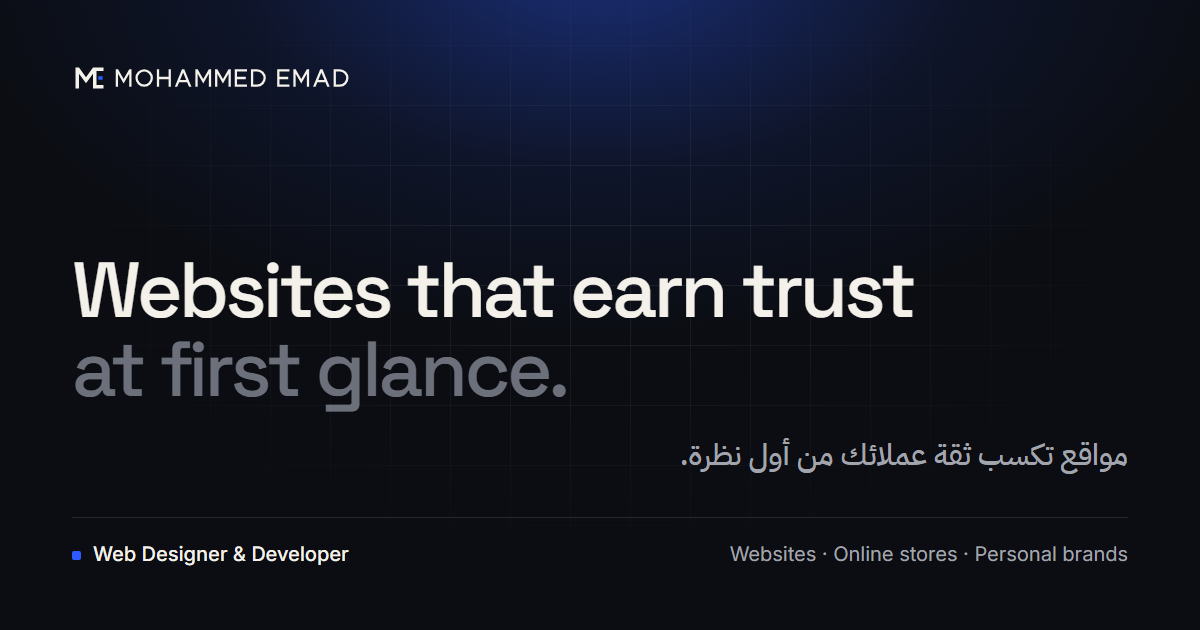
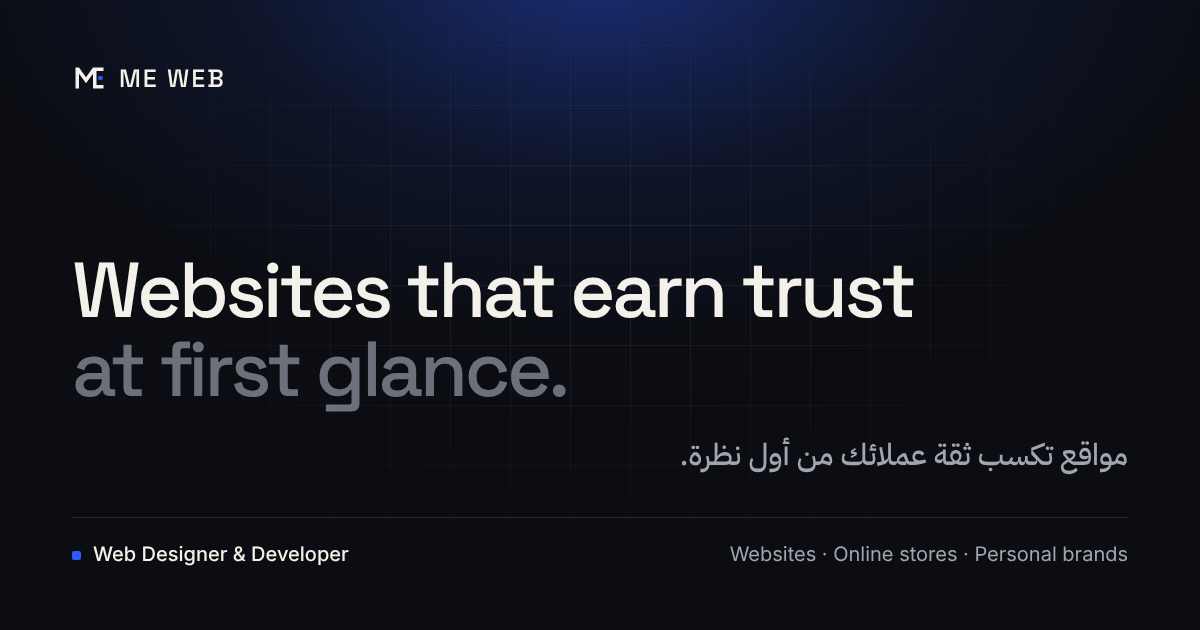
Rebrand the site as ME Web
Header wordmark, page titles, meta and social tags, about intro, WhatsApp
messages, footer and the link-preview image now use the ME Web brand.

Claude-Session: https://claude.ai/code/session_011H3y8ddzUaxvKRhzJsDCke

diff --git a/js/i18n.js b/js/i18n.js
@@ -4,10 +4,10 @@
    ========================================================================= */
 window.I18N = {
   ar: {
-    brand: { name: "محمد عماد" },
+    brand: { name: "ME Web", owner: "محمد عماد" },
     meta: {
-      title: "محمد عماد — تصميم وتطوير المواقع",
-      description: "أبني مواقع وأتمتة ذكية تجلب لك العملاء وتوفّر وقتك — للشركات والمتاجر الإلكترونية والعلامات الشخصية."
+      title: "ME Web | محمد عماد — تصميم وتطوير المواقع",
+      description: "ME Web: مواقع وأتمتة ذكية تجلب لك العملاء وتوفّر وقتك — للشركات والمتاجر الإلكترونية والعلامات الشخصية."
     },
     nav: {
       work: "الأعمال",
@@ -88,7 +88,7 @@ window.I18N = {
       askText: "أخبرني بها، وسأقترح عليك كيف يمكن أن تتم وحدها.",
       more: "اكتشف الأتمتة",
       page: {
-        metaTitle: "أتمتة الأعمال — محمد عماد",
+        metaTitle: "أتمتة الأعمال — ME Web",
         metaDescription: "موقع يعمل لأجلك على مدار الساعة: رد فوري على العملاء، وطلبات تُسجَّل وحدها، ومتابعة لا تنسى.",
         lead: "بدل أن تقضي يومك في الرد والنسخ والمتابعة، دع موقعك يتولّى المهام المتكررة — وتفرّغ أنت لعملائك ولعملك.",
         examplesTitle: "أمثلة لما يمكن أن يتم تلقائيًا",
@@ -123,7 +123,7 @@ window.I18N = {
         { icon: "compass", t: "صورة واضحة", d: "تخرج وأنت تعرف كيف يمكن أن يبدو موقعك وما الذي يحتاجه — حتى لو لم نعمل معًا." }
       ],
       page: {
-        metaTitle: "استشارة مجانية — محمد عماد",
+        metaTitle: "استشارة مجانية — ME Web",
         metaDescription: "احجز اجتماعًا مجانيًا وبدون أي التزام للحديث عن فكرة موقعك، واخرج بصورة واضحة لما يناسبك.",
         title: "محادثة مجانية <span class=\"hl\">عن موقعك.</span>",
         lead: "قبل أن تدفع أي شيء، لنتحدث عن موقعك وعن المهام التي يمكن أن تتم تلقائيًا. سأساعدك أن تعرف بوضوح ما تحتاجه — سواء قررت العمل معي أو لا.",
@@ -171,7 +171,7 @@ window.I18N = {
         d: "موقع يجلب لك العملاء — ويتابع معهم تلقائيًا.",
         points: ["موقع احترافي مصمّم ليحوّل الزوار إلى عملاء", "رد فوري وتنبيه بكل عميل جديد", "متابعة وتذكيرات تلقائية"],
         cta: "اسأل عن هذه الباقة",
-        wa: "مرحبًا محمد، أنا مهتم بباقة الموقع + الأتمتة."
+        wa: "أهلًا ME Web، أنا مهتم بباقة الموقع + الأتمتة."
       },
       askTitle: "لست متأكدًا مما تحتاجه؟",
       askText: "أخبرني عن نشاطك، وسنحدّد معًا الحل الأنسب لك.",
@@ -201,7 +201,7 @@ window.I18N = {
     },
     about: {
       eyebrow: "عنّي",
-      title: "أهلًا، أنا محمد عماد.",
+      title: "أنا محمد عماد، صاحب ME Web.",
       role: "مصمّم ومطوّر مواقع",
       lecturer: "محاضر لغة ألمانية",
       creator: "صانع محتوى على يوتيوب",
@@ -229,6 +229,7 @@ window.I18N = {
     footer: {
       tagline: "مواقع وأتمتة أعمال للشركات والمتاجر والعلامات الشخصية.",
       rights: "جميع الحقوق محفوظة.",
+      owner: "المؤسس: محمد عماد",
       top: "العودة للأعلى",
       explore: "تصفّح",
       connect: "تواصل"
@@ -249,7 +250,7 @@ window.I18N = {
       ctaTitle: "تريد موقعًا بهذا المستوى؟",
       ctaLead: "أرسل لي رسالة على واتساب ولنبدأ الحديث عن مشروعك.",
       notFound: "لم يتم العثور على هذا المشروع.",
-      waAbout: "مرحبًا محمد، شاهدت مشروع {name} وأريد موقعًا بنفس المستوى."
+      waAbout: "أهلًا ME Web، شاهدت مشروع {name} وأريد موقعًا بنفس المستوى."
     },
     img: { missing: "ضع الصورة هنا" },
     social: { whatsapp: "واتساب", email: "البريد", youtube: "يوتيوب", instagram: "إنستجرام", tiktok: "تيك توك", facebook: "فيسبوك" },
@@ -257,10 +258,10 @@ window.I18N = {
   },
 
   en: {
-    brand: { name: "Mohammed Emad" },
+    brand: { name: "ME Web", owner: "Mohammed Emad" },
     meta: {
-      title: "Mohammed Emad — Web Designer & Developer",
-      description: "I build websites and smart automations that bring you clients and save you time — for businesses, online stores, and personal brands."
+      title: "ME Web | Mohammed Emad — Web Design & Development",
+      description: "ME Web builds websites and smart automations that bring you clients and save you time — for businesses, online stores, and personal brands."
     },
     nav: {
       work: "Work",
@@ -341,7 +342,7 @@ window.I18N = {
       askText: "Tell me about it, and I’ll suggest how it could run on its own.",
       more: "Explore automation",
       page: {
-        metaTitle: "Business automation — Mohammed Emad",
+        metaTitle: "Business automation — ME Web",
         metaDescription: "A website that works for you 24/7: instant replies to clients, orders recorded on their own, and follow-ups that never forget.",
         lead: "Instead of spending your day replying, copying, and following up, let your website handle the repetitive tasks — so you can focus on your clients and your work.",
         examplesTitle: "Examples of what can run on its own",
@@ -376,7 +377,7 @@ window.I18N = {
         { icon: "compass", t: "A clear picture", d: "You’ll leave knowing what your website could look like and what it takes — even if we don’t work together." }
       ],
       page: {
-        metaTitle: "Free consultation — Mohammed Emad",
+        metaTitle: "Free consultation — ME Web",
         metaDescription: "Book a free, no-obligation meeting to talk about your website idea, and leave with a clear picture of what fits you.",
         title: "A free conversation <span class=\"hl\">about your website.</span>",
         lead: "Before you spend anything, let’s talk about your website and the tasks that could run on their own. I’ll help you get clear on what you need — whether or not you end up working with me.",
@@ -424,7 +425,7 @@ window.I18N = {
         d: "A website that brings you clients — and follows up with them automatically.",
         points: ["A professional website designed to turn visitors into clients", "Instant replies and alerts for every new lead", "Automatic follow-ups and reminders"],
         cta: "Ask about this package",
-        wa: "Hi Mohammed, I'm interested in the Website + Automation package."
+        wa: "Hi ME Web, I'm interested in the Website + Automation package."
       },
       askTitle: "Not sure what you need?",
       askText: "Tell me about your business and we’ll figure out the right solution together.",
@@ -454,7 +455,7 @@ window.I18N = {
     },
     about: {
       eyebrow: "About",
-      title: "Hi, I’m Mohammed Emad.",
+      title: "I’m Mohammed Emad, the founder of ME Web.",
       role: "Web designer & developer",
       lecturer: "German language lecturer",
       creator: "Content creator on YouTube",
@@ -482,6 +483,7 @@ window.I18N = {
     footer: {
       tagline: "Websites and business automation for businesses, stores, and personal brands.",
       rights: "All rights reserved.",
+      owner: "Founder: Mohammed Emad",
       top: "Back to top",
       explore: "Explore",
       connect: "Connect"
@@ -502,7 +504,7 @@ window.I18N = {
       ctaTitle: "Want a website at this level?",
       ctaLead: "Send me a message on WhatsApp and let’s talk about your project.",
       notFound: "This project could not be found.",
-      waAbout: "Hi Mohammed, I saw the {name} project and I'd like a website at the same level."
+      waAbout: "Hi ME Web, I saw the {name} project and I'd like a website at the same level."
     },
     img: { missing: "Place image here" },
     social: { whatsapp: "WhatsApp", email: "Email", youtube: "YouTube", instagram: "Instagram", tiktok: "TikTok", facebook: "Facebook" },

diff --git a/index.html b/index.html
@@ -3,8 +3,8 @@
 <head>
   <meta charset="utf-8">
   <meta name="viewport" content="width=device-width, initial-scale=1, viewport-fit=cover">
-  <title>محمد عماد — تصميم وتطوير المواقع</title>
-  <meta name="description" content="أصمّم وأطوّر مواقع أنيقة وسريعة للشركات والمتاجر الإلكترونية والعلامات الشخصية.">
+  <title>ME Web | محمد عماد — تصميم وتطوير المواقع</title>
+  <meta name="description" content="ME Web: تصميم وتطوير مواقع أنيقة وسريعة للشركات والمتاجر الإلكترونية والعلامات الشخصية.">
   <meta name="theme-color" content="#0B0D12">
   <meta name="color-scheme" content="dark">
   <link rel="icon" href="assets/favicon-32.png" type="image/png" sizes="32x32">
@@ -14,17 +14,20 @@
   <!-- Open Graph: the preview card shown on WhatsApp / Facebook / LinkedIn.
        After you publish the site, replace mohammed-emad-portfolio.vercel.app with your real address (see README). -->
   <meta property="og:type" content="website">
-  <meta property="og:site_name" content="محمد عماد">
-  <meta property="og:title" content="محمد عماد — مصمّم ومطوّر مواقع">
+  <meta property="og:site_name" content="ME Web">
+  <meta property="og:title" content="ME Web | محمد عماد — تصميم وتطوير المواقع">
   <meta property="og:description" content="مواقع تكسب ثقة عملائك من أول نظرة — للشركات والمتاجر الإلكترونية والعلامات الشخصية.">
   <meta property="og:url" content="https://mohammed-emad-portfolio.vercel.app/">
   <meta property="og:image" content="https://mohammed-emad-portfolio.vercel.app/assets/og-image.png">
   <meta property="og:image:width" content="1200">
   <meta property="og:image:height" content="630">
-  <meta property="og:image:alt" content="محمد عماد — مصمّم ومطوّر مواقع">
+  <meta property="og:image:alt" content="ME Web | محمد عماد — تصميم وتطوير المواقع">
   <meta property="og:locale" content="ar_EG">
   <meta property="og:locale:alternate" content="en_US">
   <meta name="twitter:card" content="summary_large_image">
+  <meta name="twitter:title" content="ME Web | محمد عماد — تصميم وتطوير المواقع">
+  <meta name="twitter:description" content="مواقع تكسب ثقة عملائك من أول نظرة — للشركات والمتاجر الإلكترونية والعلامات الشخصية.">
+  <meta name="twitter:image" content="https://mohammed-emad-portfolio.vercel.app/assets/og-image.png">
 
   <link rel="preconnect" href="https://fonts.googleapis.com">
   <link rel="preconnect" href="https://fonts.gstatic.com" crossorigin>

diff --git a/consultation.html b/consultation.html
@@ -3,8 +3,8 @@
 <head>
   <meta charset="utf-8">
   <meta name="viewport" content="width=device-width, initial-scale=1, viewport-fit=cover">
-  <title>استشارة مجانية — محمد عماد</title>
-  <meta name="description" content="احجز استشارة مجانية وبدون أي التزام مع محمد عماد للحديث عن فكرة موقعك.">
+  <title>استشارة مجانية — ME Web</title>
+  <meta name="description" content="احجز استشارة مجانية وبدون أي التزام مع ME Web للحديث عن فكرة موقعك.">
   <meta name="theme-color" content="#0B0D12">
   <meta name="color-scheme" content="dark">
   <link rel="icon" href="assets/favicon-32.png" type="image/png" sizes="32x32">
@@ -12,14 +12,17 @@
   <link rel="apple-touch-icon" href="assets/apple-touch-icon.png">
 
   <meta property="og:type" content="website">
-  <meta property="og:site_name" content="محمد عماد">
-  <meta property="og:title" content="استشارة مجانية — محمد عماد">
+  <meta property="og:site_name" content="ME Web">
+  <meta property="og:title" content="استشارة مجانية — ME Web">
   <meta property="og:description" content="محادثة مجانية وبدون أي التزام حول موقعك.">
   <meta property="og:url" content="https://mohammed-emad-portfolio.vercel.app/consultation.html">
   <meta property="og:image" content="https://mohammed-emad-portfolio.vercel.app/assets/og-image.png">
   <meta property="og:image:width" content="1200">
   <meta property="og:image:height" content="630">
   <meta name="twitter:card" content="summary_large_image">
+  <meta name="twitter:title" content="استشارة مجانية — ME Web">
+  <meta name="twitter:description" content="محادثة مجانية وبدون أي التزام حول موقعك.">
+  <meta name="twitter:image" content="https://mohammed-emad-portfolio.vercel.app/assets/og-image.png">
 
   <link rel="preconnect" href="https://fonts.googleapis.com">
   <link rel="preconnect" href="https://fonts.gstatic.com" crossorigin>

diff --git a/automation.html b/automation.html
@@ -3,7 +3,7 @@
 <head>
   <meta charset="utf-8">
   <meta name="viewport" content="width=device-width, initial-scale=1, viewport-fit=cover">
-  <title>أتمتة الأعمال — محمد عماد</title>
+  <title>أتمتة الأعمال — ME Web</title>
   <meta name="description" content="موقع يعمل لأجلك على مدار الساعة: رد فوري على العملاء، وطلبات تُسجَّل وحدها، ومتابعة لا تنسى.">
   <meta name="theme-color" content="#0B0D12">
   <meta name="color-scheme" content="dark">
@@ -12,14 +12,17 @@
   <link rel="apple-touch-icon" href="assets/apple-touch-icon.png">
 
   <meta property="og:type" content="website">
-  <meta property="og:site_name" content="محمد عماد">
-  <meta property="og:title" content="أتمتة الأعمال — محمد عماد">
+  <meta property="og:site_name" content="ME Web">
+  <meta property="og:title" content="أتمتة الأعمال — ME Web">
   <meta property="og:description" content="موقعك يعمل لأجلك، حتى وأنت نائم.">
   <meta property="og:url" content="https://mohammed-emad-portfolio.vercel.app/automation.html">
   <meta property="og:image" content="https://mohammed-emad-portfolio.vercel.app/assets/og-image.png">
   <meta property="og:image:width" content="1200">
   <meta property="og:image:height" content="630">
   <meta name="twitter:card" content="summary_large_image">
+  <meta name="twitter:title" content="أتمتة الأعمال — ME Web">
+  <meta name="twitter:description" content="موقعك يعمل لأجلك، حتى وأنت نائم.">
+  <meta name="twitter:image" content="https://mohammed-emad-portfolio.vercel.app/assets/og-image.png">
 
   <link rel="preconnect" href="https://fonts.googleapis.com">
   <link rel="preconnect" href="https://fonts.gstatic.com" crossorigin>

diff --git a/project.html b/project.html
@@ -3,8 +3,8 @@
 <head>
   <meta charset="utf-8">
   <meta name="viewport" content="width=device-width, initial-scale=1, viewport-fit=cover">
-  <title>دراسة حالة — محمد عماد</title>
-  <meta name="description" content="دراسة حالة لموقع من تصميم وتطوير محمد عماد.">
+  <title>دراسة حالة — ME Web</title>
+  <meta name="description" content="دراسة حالة لموقع من تصميم وتطوير ME Web.">
   <meta name="theme-color" content="#0B0D12">
   <meta name="color-scheme" content="dark">
   <link rel="icon" href="assets/favicon-32.png" type="image/png" sizes="32x32">
@@ -12,13 +12,16 @@
   <link rel="apple-touch-icon" href="assets/apple-touch-icon.png">
 
   <meta property="og:type" content="article">
-  <meta property="og:site_name" content="محمد عماد">
-  <meta property="og:title" content="دراسة حالة — محمد عماد">
+  <meta property="og:site_name" content="ME Web">
+  <meta property="og:title" content="دراسة حالة — ME Web">
   <meta property="og:description" content="مواقع تكسب ثقة عملائك من أول نظرة.">
   <meta property="og:image" content="https://mohammed-emad-portfolio.vercel.app/assets/og-image.png">
   <meta property="og:image:width" content="1200">
   <meta property="og:image:height" content="630">
   <meta name="twitter:card" content="summary_large_image">
+  <meta name="twitter:title" content="دراسة حالة — ME Web">
+  <meta name="twitter:description" content="مواقع تكسب ثقة عملائك من أول نظرة.">
+  <meta name="twitter:image" content="https://mohammed-emad-portfolio.vercel.app/assets/og-image.png">
 
   <link rel="preconnect" href="https://fonts.googleapis.com">
   <link rel="preconnect" href="https://fonts.gstatic.com" crossorigin>

diff --git a/brand/source/og-image.html b/brand/source/og-image.html
@@ -2,7 +2,9 @@
 <style>:root{--w:1200px;--h:630px;--g:60px}
 .glow{width:1300px;height:760px;top:-420px}
 .wrap{position:relative;height:100%;padding:64px 72px;display:flex;flex-direction:column}
-.logo{height:28px;width:auto;align-self:flex-start}
+.logo{display:flex;align-items:center;gap:12px;align-self:flex-start}
+.logo img{height:28px;width:auto}
+.logo span{font-family:"Space Grotesk";font-weight:500;font-size:25px;line-height:1;letter-spacing:.08em}
 h1{margin-top:auto;font-family:"Space Grotesk";font-weight:500;font-size:78px;line-height:1.02;letter-spacing:-.045em}
 h1 span{color:#6C707A}
 .ar{margin-top:22px;font-size:30px;font-weight:500;color:#A2A5AD}
@@ -10,7 +12,7 @@ h1 span{color:#6C707A}
 .foot b{color:#F4F1EA;font-weight:500}
 .dot{display:inline-block;width:9px;height:9px;background:#2E5BFF;border-radius:2px;margin-right:12px;vertical-align:middle}
 </style></head><body><div class="grid"></div><div class="glow"></div>
-<div class="wrap"><img class="logo" src="../logo-on-dark.svg" alt="">
+<div class="wrap"><div class="logo"><img src="../mark-on-dark.svg" alt=""><span>ME WEB</span></div>
 <h1>Websites that earn trust<br><span>at first glance.</span></h1>
 <p class="ar">مواقع تكسب ثقة عملائك من أول نظرة.</p>
 <div class="foot"><span><i class="dot"></i><b>Web Designer &amp; Developer</b></span><span>Websites · Online stores · Personal brands</span></div>

diff --git a/css/style.css b/css/style.css
@@ -1,5 +1,5 @@
 /* =========================================================================
-   Mohammed Emad — Portfolio styles
+   ME Web — site styles
    Colors & fonts live in :root below (same values as brand/brand.html).
    ========================================================================= */
 
@@ -1314,9 +1314,12 @@ html[lang="ar"] .case-row__body p { line-height: 1.95; }
   letter-spacing: var(--tr-m);
   white-space: nowrap;
 }
-html[lang="ar"] .brand__name { font-size: 17px; }
+html[lang="ar"] .brand__name { font-size: 16px; }
+/* "ME WEB" is a Latin brand name in both languages */
+.brand__name { font-family: "Space Grotesk", system-ui, sans-serif; text-transform: uppercase; letter-spacing: .08em; }
+.footer__copy small { display: block; margin-top: 4px; font-size: 12px; opacity: .8; }
 .footer__logo .brand .mark { height: 24px; }
-.footer__logo .brand__name { font-size: 17px; }
+.footer__logo .brand__name { font-size: 16px; }
 
 /* =========================================================================
    Automation

diff --git a/data/site.js b/data/site.js
@@ -27,13 +27,13 @@ window.SITE = {
 
   // الرسالة الجاهزة التي تُكتب تلقائيًا عند فتح واتساب
   whatsappMessage: {
-    ar: "مرحبًا محمد، شاهدت أعمالك وأريد أن أبدأ مشروع موقع.",
-    en: "Hi Mohammed, I saw your portfolio and I'd like to start a website project."
+    ar: "أهلًا ME Web، حابب أبدأ مشروع موقع.",
+    en: "Hi ME Web, I'd like to start a website project."
   },
 
   // الرسالة الجاهزة لزر "احجز اجتماعًا مجانيًا"
   consultMessage: {
-    ar: "مرحبًا محمد، أريد حجز استشارة مجانية بخصوص موقعي أو أتمتة نشاطي.",
-    en: "Hi Mohammed, I'd like to book a free consultation about my website or automating my business."
+    ar: "أهلًا ME Web، حابب أحجز استشارة مجانية بخصوص موقعي",
+    en: "Hi ME Web, I'd like to book a free consultation about my website"
   }
 };

diff --git a/js/home.js b/js/home.js
@@ -109,8 +109,8 @@
   function renderAbout() {
     $('about-portrait').innerHTML = `
       <div class="about__mark">${window.App.MARK}</div>
-      <img src="assets/about/me.jpg" alt="${esc(t('brand.name'))}" width="720" height="900" decoding="async" onerror="this.remove()">
-      <figcaption class="about__badge"><b>${esc(t('brand.name'))}</b><span>${esc(t('about.role'))}</span></figcaption>`;
+      <img src="assets/about/me.jpg" alt="${esc(t('brand.owner'))}" width="720" height="900" decoding="async" onerror="this.remove()">
+      <figcaption class="about__badge"><b>${esc(t('brand.owner'))}</b><span>${esc(t('about.role'))}</span></figcaption>`;
     const yt = SITE.youtube
       ? `<a class="about__yt" href="${esc(SITE.youtube)}" target="_blank" rel="noopener">${icon('youtube')}<span>${esc(t('about.creator'))}</span>${icon('arrowUpRight')}</a>`
       : `<span>${esc(t('about.creator'))}</span>`;

diff --git a/js/core.js b/js/core.js
@@ -283,7 +283,7 @@
             </div>
           </div>
           <div class="footer__bottom">
-            <span>© ${new Date().getFullYear()} ${esc(t('brand.name'))}. ${esc(t('footer.rights'))}</span>
+            <span class="footer__copy">© ${new Date().getFullYear()} ${esc(t('brand.name'))}. ${esc(t('footer.rights'))}<small>${esc(t('footer.owner'))}</small></span>
             <a href="#top" class="footer__top-link">${esc(t('footer.top'))} ${icon('arrowUp')}</a>
           </div>
         </div>`;

diff --git a/404.html b/404.html
@@ -3,7 +3,7 @@
 <head>
   <meta charset="utf-8">
   <meta name="viewport" content="width=device-width, initial-scale=1, viewport-fit=cover">
-  <title>404 — محمد عماد</title>
+  <title>404 — ME Web</title>
   <meta name="robots" content="noindex">
   <meta name="theme-color" content="#0B0D12">
   <link rel="icon" href="/assets/favicon-32.png" type="image/png" sizes="32x32">
